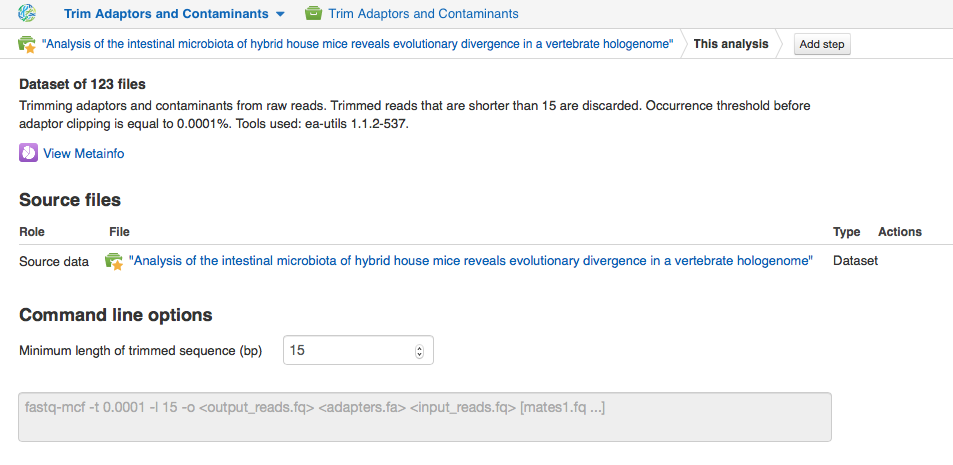
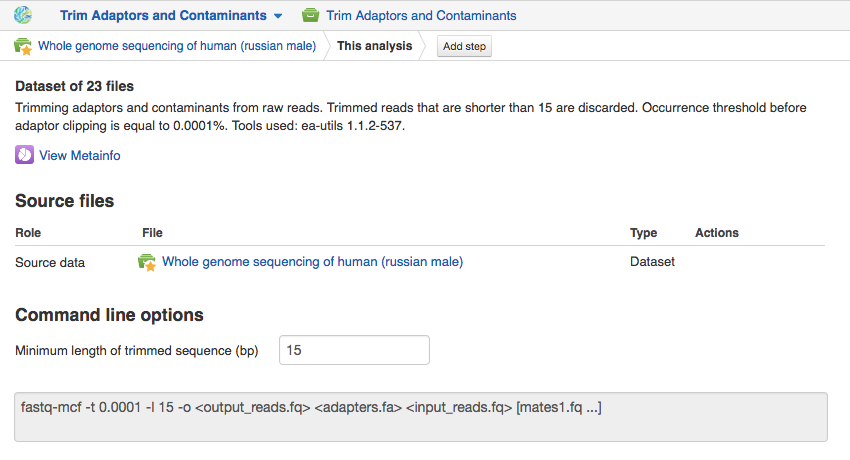
update getting started tutorial; update obsolete pictures

diff --git a/source/tutorials/Getting_started/initialisation-and-building-pipeline.rst b/source/tutorials/Getting_started/initialisation-and-building-pipeline.rst
@@ -11,32 +11,30 @@ download, indexing, computation. In practice, it means that uninitialised
 files are cheap and quick to create, can be configured, used as inputs
 to applications to create other files, and then, later, computed all at
 once. Let’s look at an example. Go to the public experiment library and
-choose `“Analysis of the intestinal microbiota of hybrid house mice
-reveals evolutionary divergence in a vertebrate hologenome”`_ dataset by Wang et al.
+choose `"Whole genome sequencing of human (russian male)"`_ dataset.
 
-.. image:: images/wang-1.png
+.. image:: images/wgs-russian-male-1.png
    :align: center
 
 Click **Analyse** button and, then, select **Trim Adaptors and Contaminants** in the list of the suggested applications.
 If you want to analyse some of the files from a given dataset, you can select the files you
 are interested in and **Make a subset** the entire dataset.
 
-.. image:: images/wang-2.png
+.. image:: images/wgs-russian-male-2.png
    :align: center
 
 Regardless the input you would like to start with, at this step you do
 not have to start initialisation right away. In fact, you can use the file created
 by the app as an input to applications and continue building the pipeline.
-
-.. image:: images/trim-adaptors-app.png
-   :align: center
-
 Notice that you can **edit the parameters** of analysis on the app page.
 You can change them because the file is not yet
 initialised, i.e. the computation – in this case, trimming – has not yet
 been started. After initialisation has completed, these parameters are
 fixed. Thanks to these parameters are saved in the metainfo, they can be further
 used to identically reproduce your work.
+
+.. image:: images/trim-adaptors-app.png
+   :align: center
 
 To start initialisation of a newly created file, click on the name of the file
 and select **Start initialisation**.
@@ -45,26 +43,27 @@ and select **Start initialisation**.
    :align: center
 
 To use this file as an input for a different application, for example to map the trimmed raw reads
-to a reference genome, you should click on **Add step** and select the "Spliced Mapping with Tophat"
+to a reference genome, you should click on **Add step** and select the "Spliced Mapping with Tophat2"
 application.
 
-.. image:: images/add-step.png
+.. image:: images/cla-add-step.png
    :align: center
 
-With the **edit parameters** option you can check if the system
-suggested a correct reference genome and if not, you can select the correct
-one. As a result, another dataset called "Spliced Mapping with Tophat2 " is created
-and is waiting to be initialised.
+As a result, another dataset called
+"Spliced Mapping with Tophat2 " is created and is waiting to be initialised.
+On the application page you can check if the system suggested a correct
+reference genome and if not, select the correct one.
 
-
+.. image:: images/tophat.png
+   :align: center
 
 This dataset, in turn, can be used as an input for a different application.
 As the last step of the analysis you could, for example, identify genetic variants by adding
-the "Variant Calling" app. In order to see `the entire data flow`_
+the "Variant Calling" app. In order to see the entire data flow
 we have just created, click on the name of the last created file, go to
 “Manage” and **File Provenance**.
 
-.. image:: images/provenance.png
+.. image:: images/provenance1.png
    :align: center
 
 It will show you processes that have been completed, and ones that need to be
@@ -90,7 +89,7 @@ found at the top of the page.
 
 .. .. image:: images/app-page-100-files.png
 
-All the files created in the above example are located in the `tutorial folder`_.
+.. All the files created in the above example are located in the `tutorial folder`_.
 
 .. Now let's talk a bit about different types of files
 .. that can be found on the platform. As we demonstrated, all our files
@@ -144,6 +143,6 @@ All the files created in the above example are located in the `tutorial folder`_
 .. experimentally collected data. They are a handy container for data. 
 .. **Raw reads** are a general category of file types, which store raw sequencing data.
 
-.. _“Analysis of the intestinal microbiota of hybrid house mice reveals evolutionary divergence in a vertebrate hologenome”: https://platform.genestack.org/endpoint/application/run/genestack/metainfo-editor-app?a=GSF317032&action=viewFile
-.. _the entire data flow: https://platform.genestack.org/endpoint/application/run/genestack/datafloweditor?a=GSF1016183&action=viewFile
+.. _"Whole genome sequencing of human (russian male)": https://platform.genestack.org/endpoint/application/run/genestack/metainfo-editor-app?a=GSF916135&action=viewFile
+.. .. _the entire data flow:
 .. _tutorial folder: https://platform.genestack.org/endpoint/application/run/genestack/filebrowser?a=GSF1016175&action=viewFile&page=1
